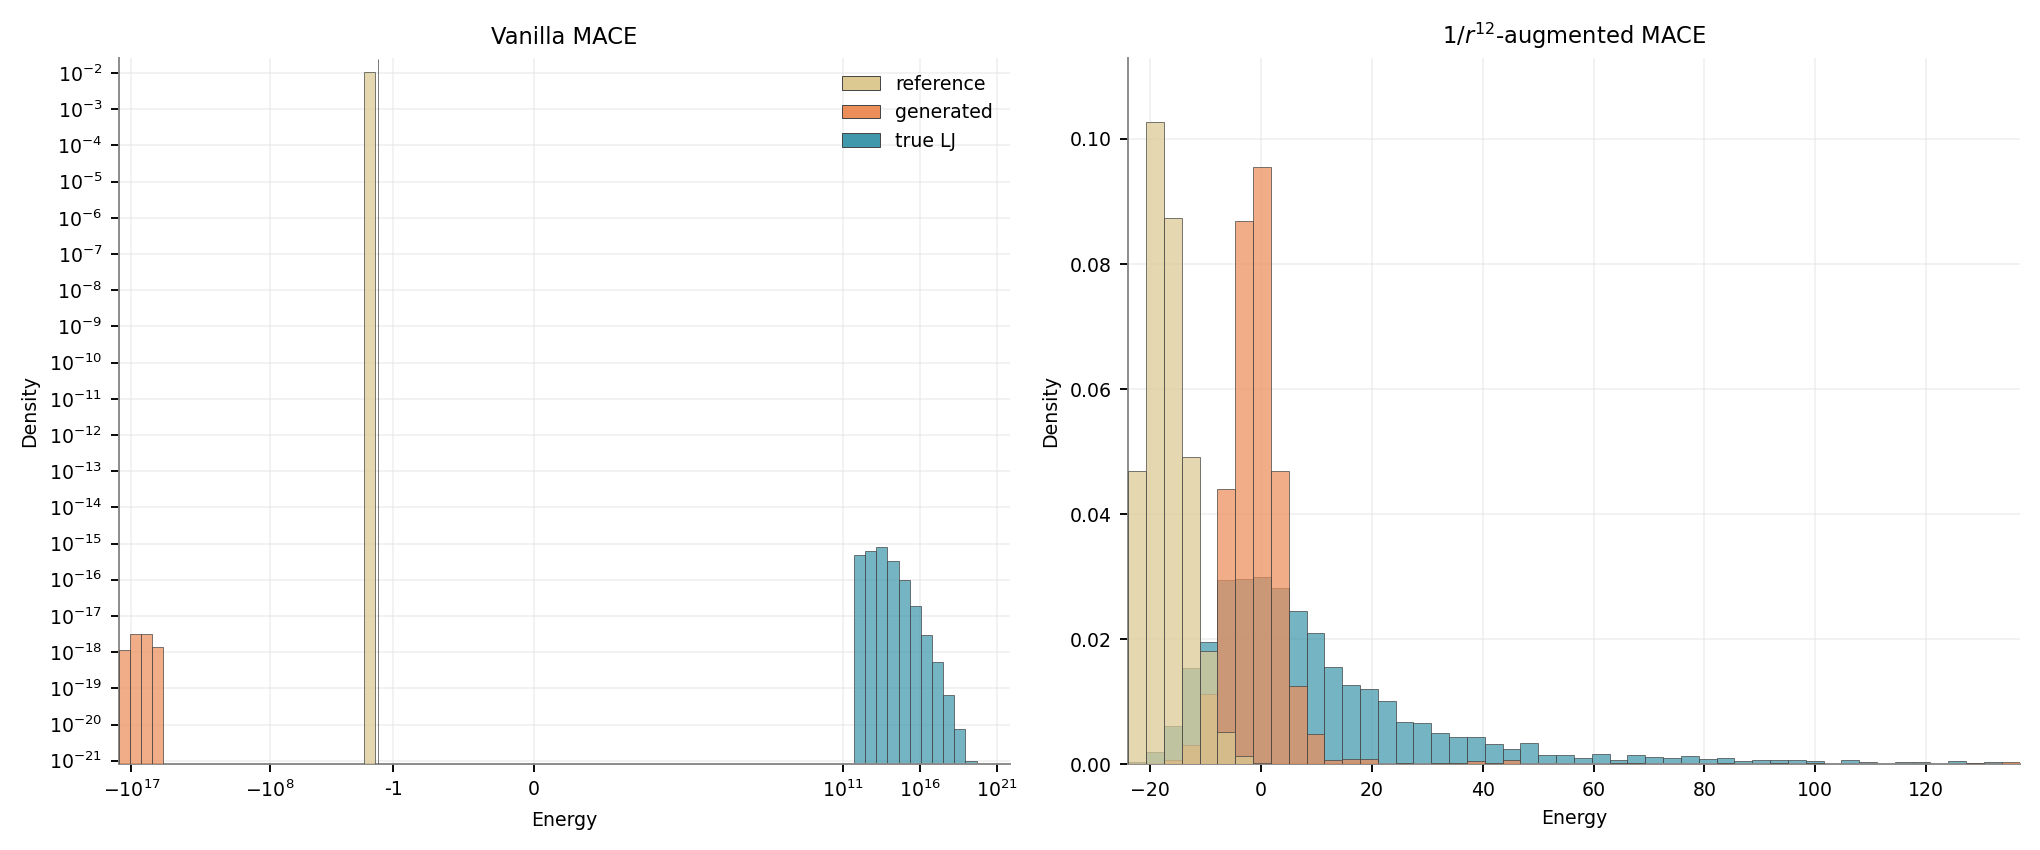
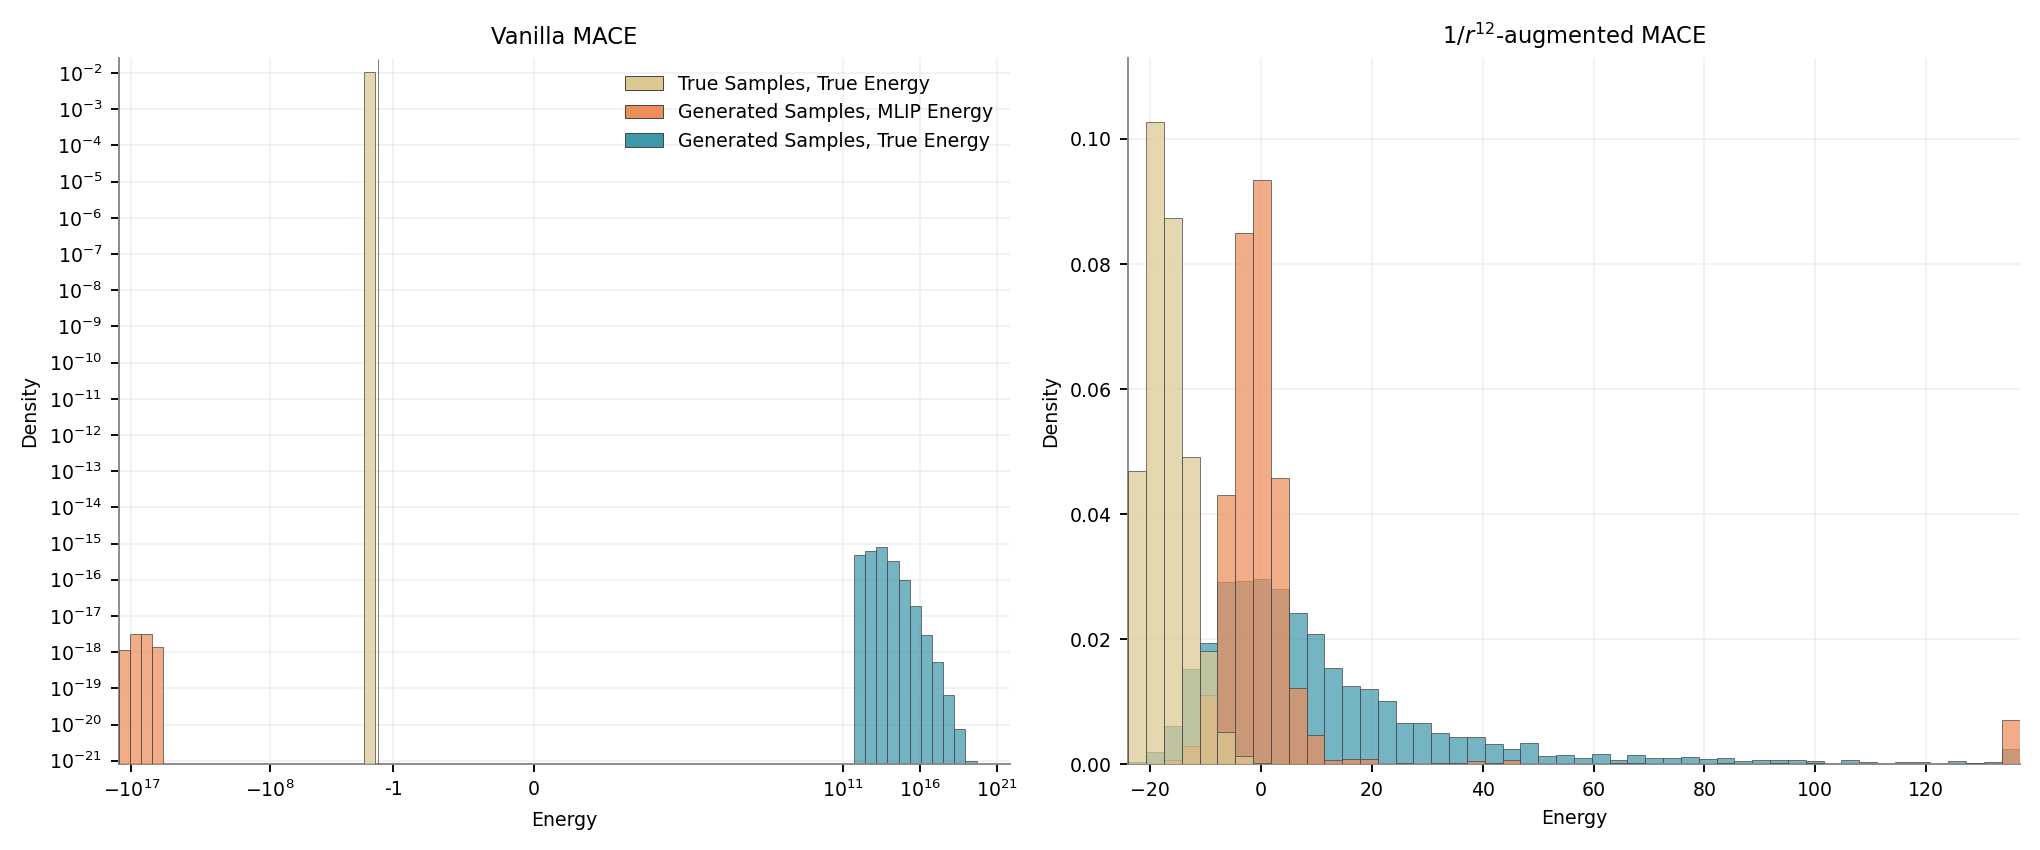
update figures

diff --git a/attracting-trouble/src/App.tsx b/attracting-trouble/src/App.tsx
@@ -319,13 +319,13 @@ export default function MLIPProjectPage() {
               <div className="flex justify-center">
                 <div className="grid w-fit max-w-full grid-cols-1 items-start gap-4 sm:grid-cols-2 sm:gap-6">
                   <img
-                    src="/gifs/xyz_animate_trajectory.gif"
-                    alt="3D molecular trajectory animation"
+                    src="/gifs/proper_xyz_animate_trajectory.gif"
+                    alt="Animated 3D molecular trajectory"
                     className="mx-auto block h-[min(60vw,320px)] w-auto max-w-full object-contain sm:h-[360px]"
                   />
                   <img
-                    src="/gifs/compression_probe_white_bg.gif"
-                    alt="Short-range compression energy and force response for vanilla MACE and 1/r^12-augmented MACE"
+                    src="/gifs/final_compression_probe_two_model.gif"
+                    alt="Animated energy and radial force dissociation scans for vanilla MACE and 1/r^12-augmented MACE"
                     className="mx-auto block h-[min(60vw,320px)] w-auto max-w-full object-contain sm:h-[360px]"
                   />
                 </div>